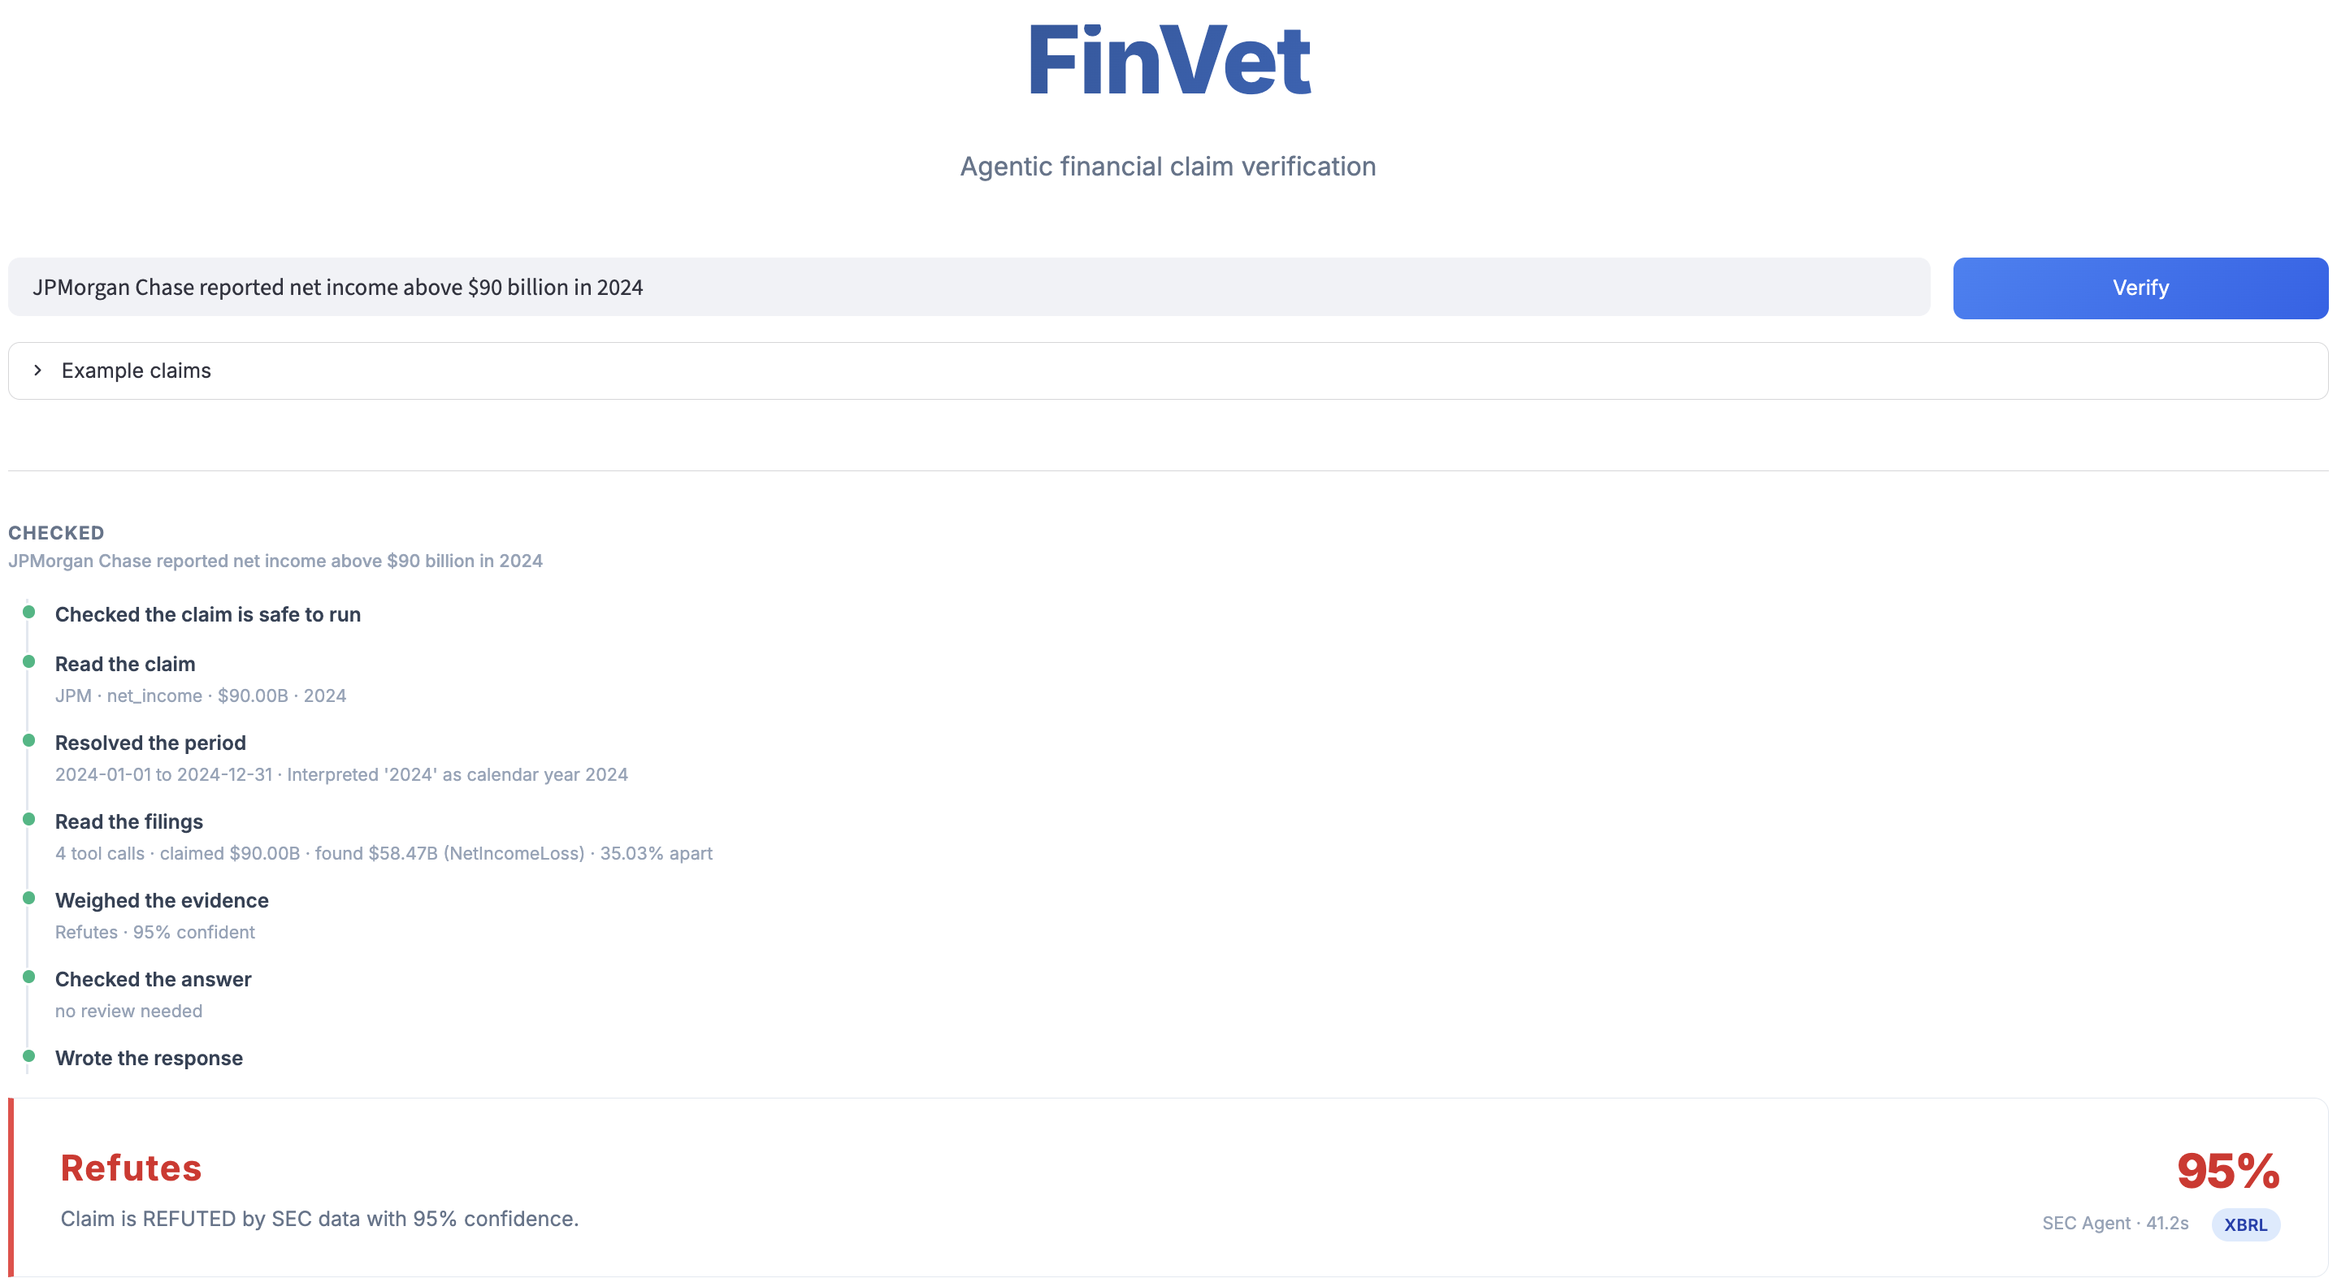
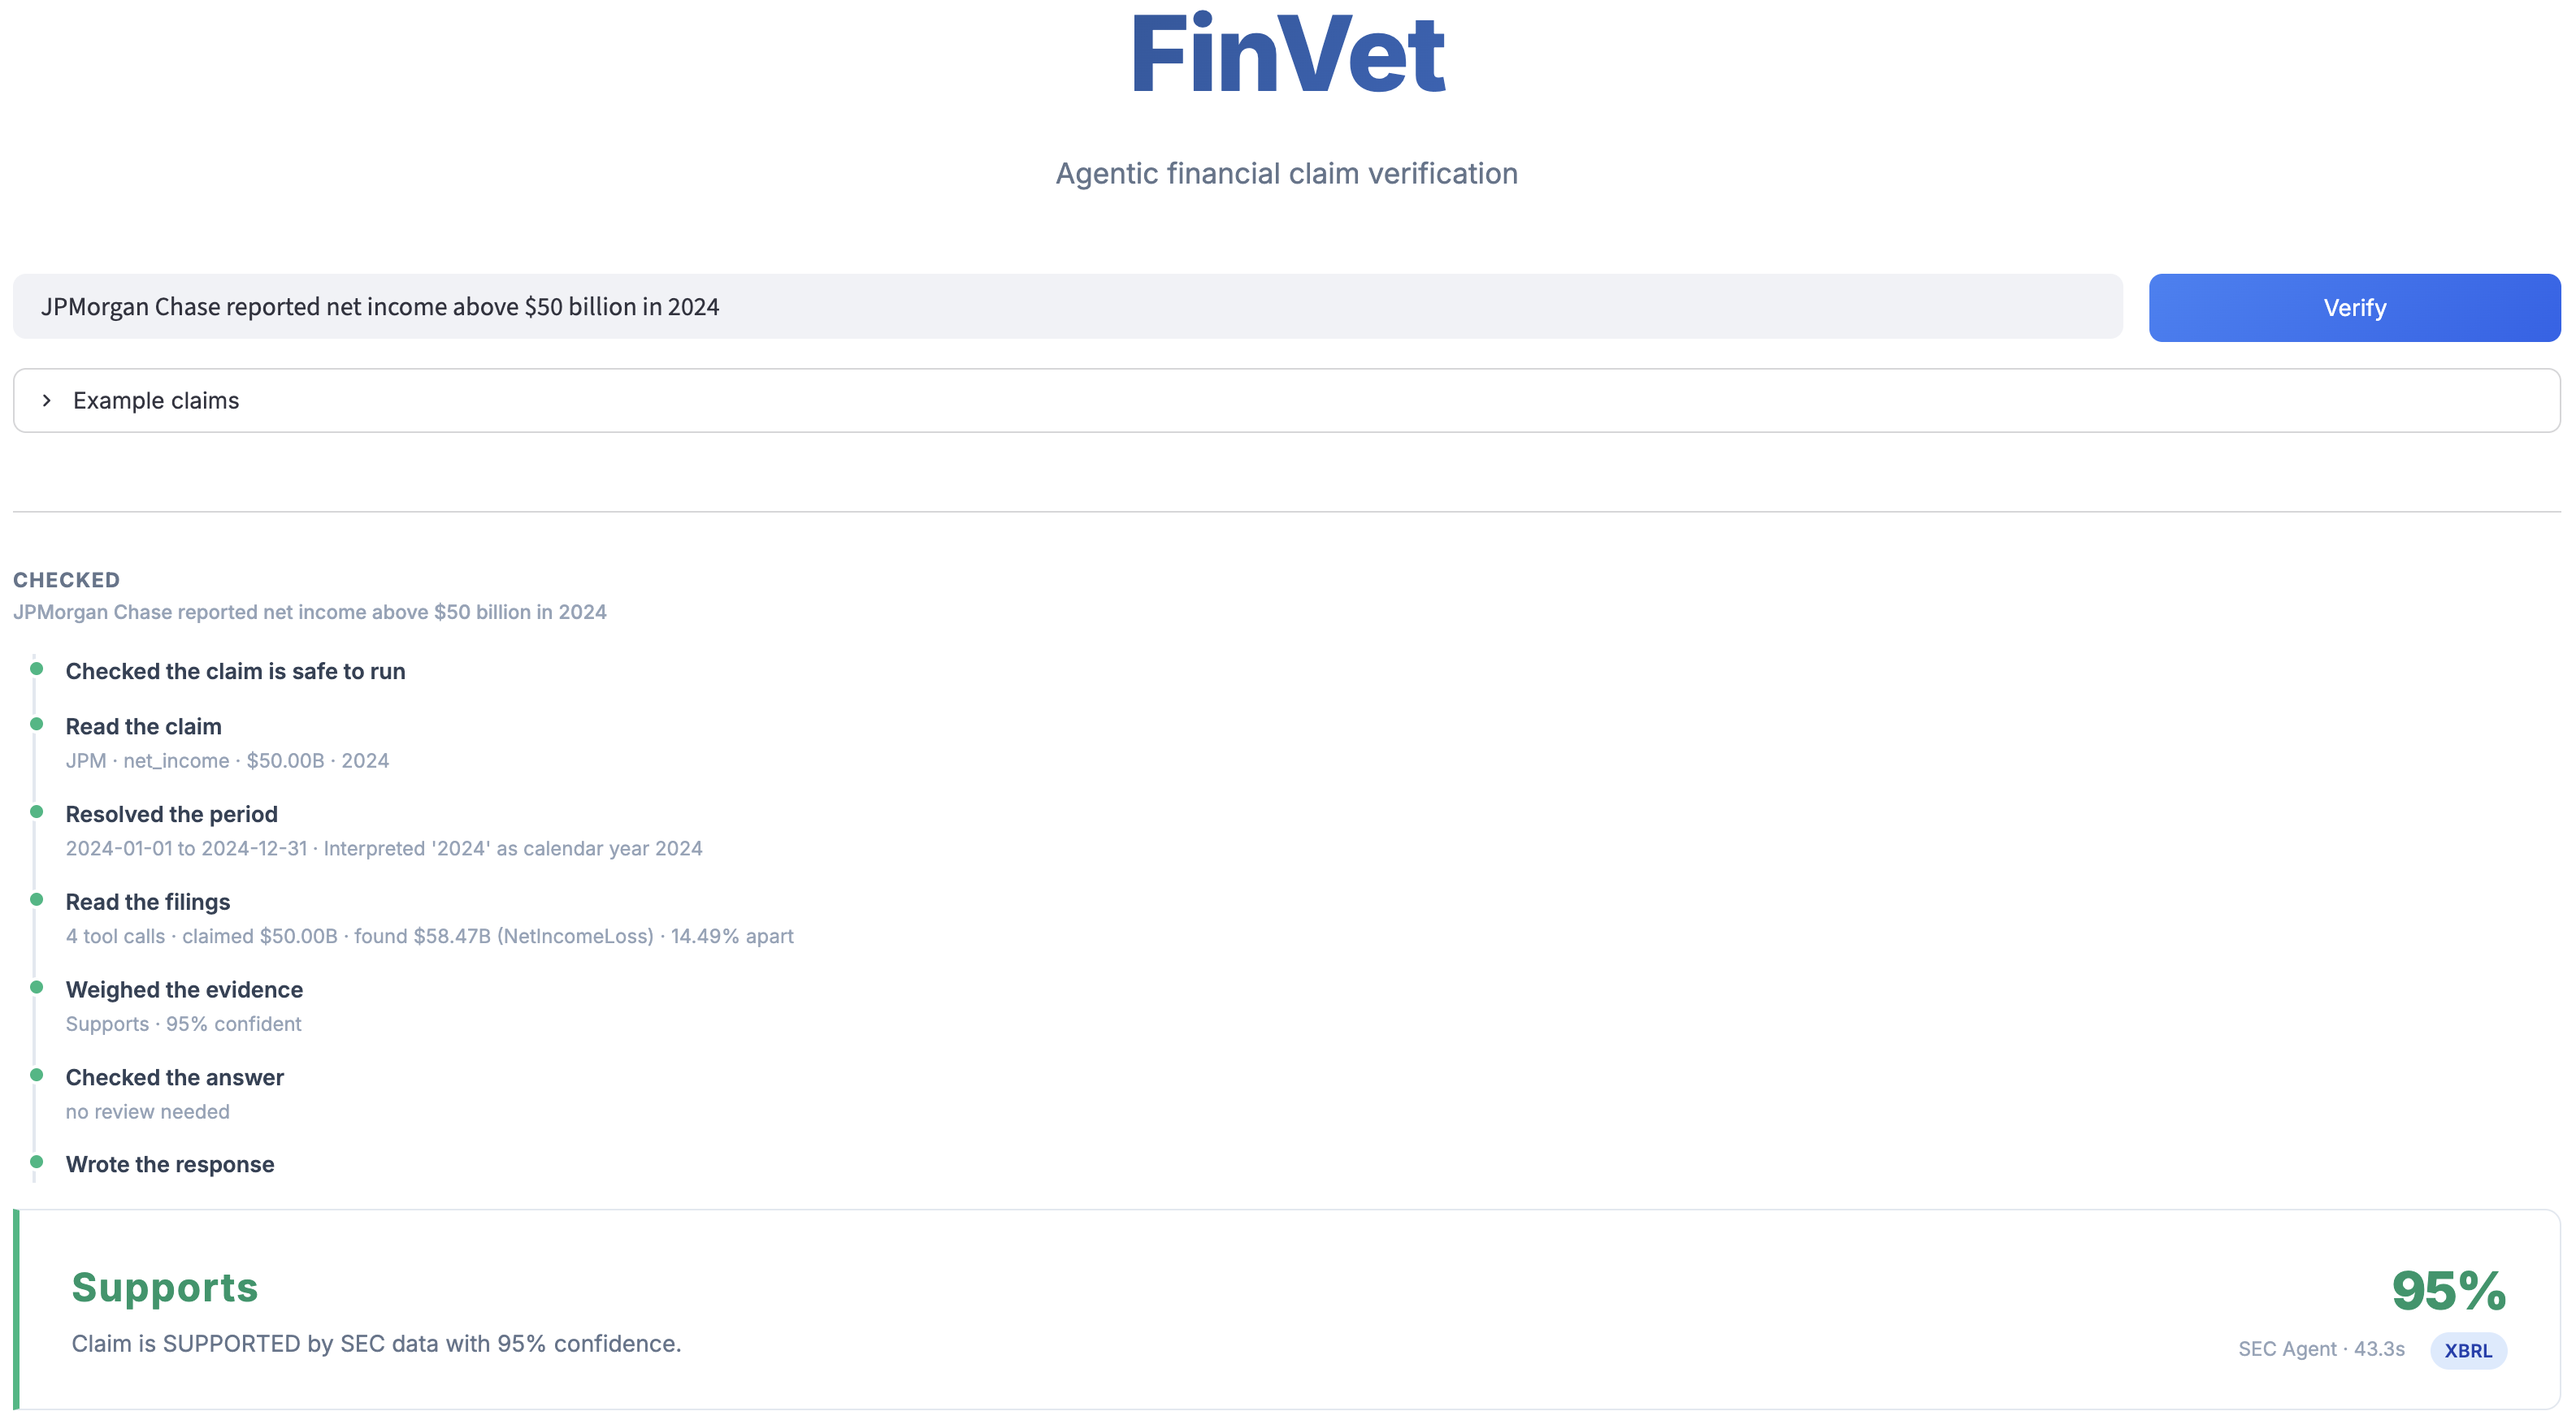
docs: screenshots show the directional-operator case
Both shots are now one JPMorgan run claiming net income above $50B against a
filed $58.47B. The caption does the work the image cannot: a 14.5% gap
supports an 'above' claim, because the comparator reads the operator rather
than the distance. A tolerance check alone would have refuted it.

The second shot is unchanged in purpose, carrying every tool call with its
arguments, raw response and the accession number the figure came from.

diff --git a/README.md b/README.md
@@ -13,8 +13,10 @@ agent that answered, lists every tool call it made in order, and keeps an audit 
 run.
 
 <p align="center">
-  <a href="docs/diagrams/finvet-screenshot.png"><img src="docs/diagrams/finvet-screenshot.png" alt="FinVet refuting a claim: the pipeline steps, the claimed and filed figures, and the verdict"></a>
-  <br><sub>Claimed $90.00B, filed $58.47B, 35.03% apart. Click any image for full resolution.</sub>
+  <a href="docs/diagrams/finvet-screenshot.png"><img src="docs/diagrams/finvet-screenshot.png" alt="FinVet verifying a claim: the pipeline steps, the claimed and filed figures, and the verdict"></a>
+  <br><sub>Claimed above $50B, filed $58.47B. The 14.5% gap supports an "above" claim rather than
+  refuting it, because the comparator reads the operator and not just the distance.
+  Click any image for full resolution.</sub>
 </p>
 
 <p align="center">
